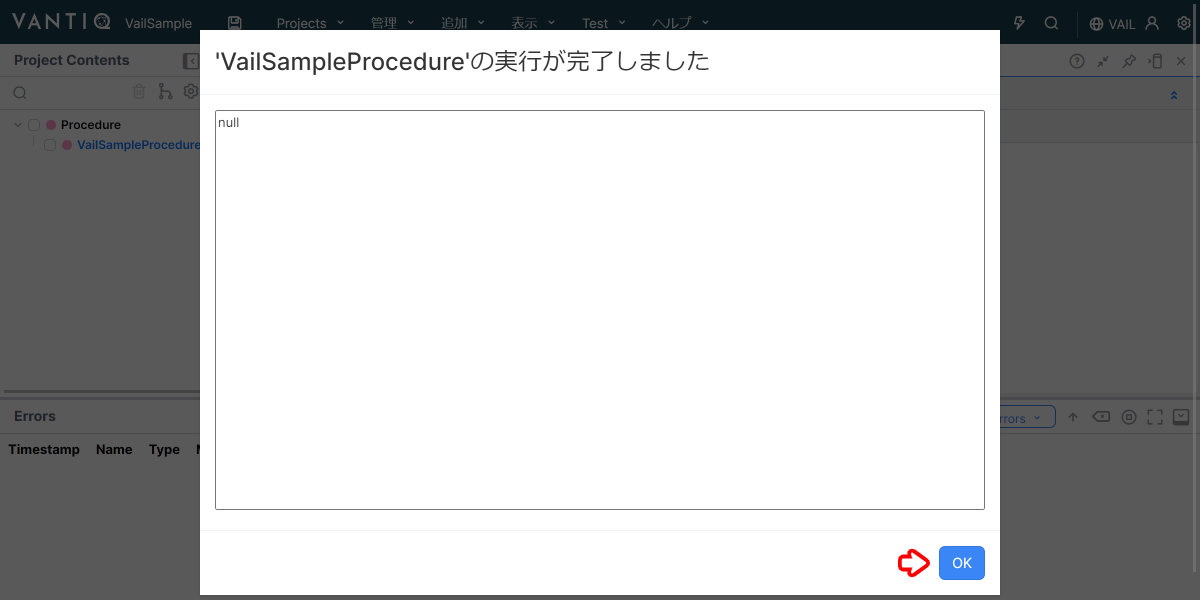
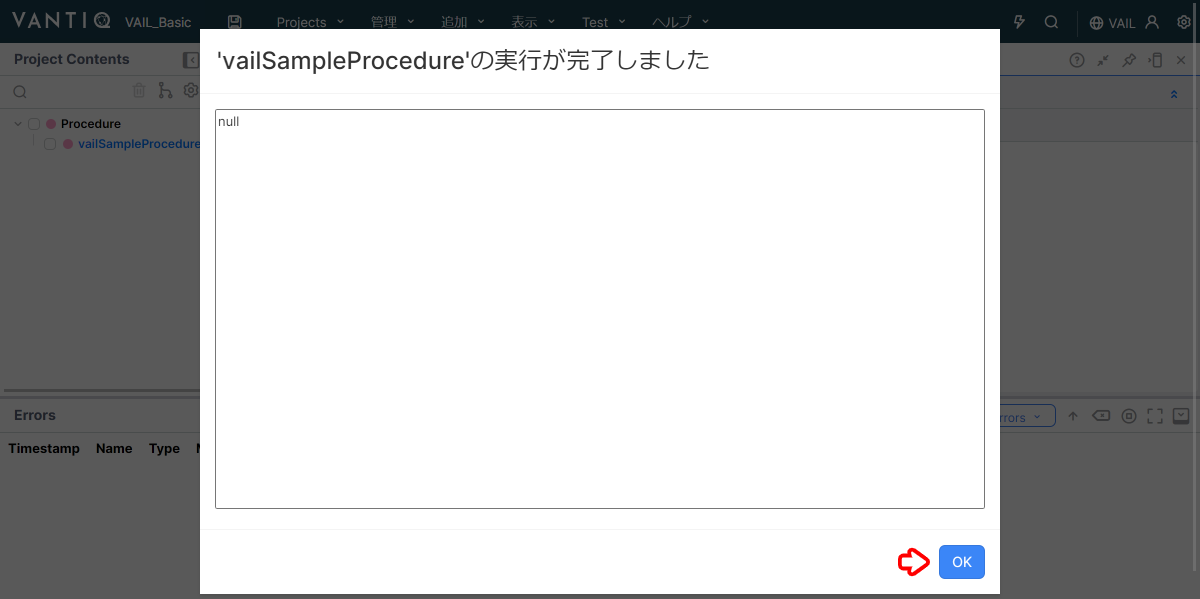
VAIL 入門（基礎）の改修
- 説明文の追加
- 画像の修正
- Procedure 名の変更
- 実装サンプルの追加

diff --git a/vantiq-introduction/apps-development/vail-introductory/vail_basic/vail_basic.md b/vantiq-introduction/apps-development/vail-introductory/vail_basic/vail_basic.md
@@ -21,6 +21,7 @@ Vantiq アプリケーション開発時に使用する独自言語である `VA
     - [Type](#type)
   - [配列](#配列)
   - [Try catch](#try-catch)
+  - [実装サンプル](#実装サンプル)
 
 ## Procedure の作成
 
@@ -42,7 +43,7 @@ VAIL を使うにあたって、まずは Procedure を用意します。
 
    ![vail_procedure_create_04.png](./imgs/vail_procedure_create_04.png)
 
-1. Procedure 名を任意の名前に変更し、保存します。（例：VailSampleProcedure）  
+1. Procedure 名を任意の名前に変更し、保存します。（例：vailSampleProcedure）  
 
    ![vail_procedure_create_05.png](./imgs/vail_procedure_create_05.png)
 
@@ -74,7 +75,7 @@ VAIL を使うにあたって、まずは Procedure を用意します。
 他の言語と同様に VAIL でもコメントアウトを記述できます。  
 
 ```JavaScript
-PROCEDURE VailSampleProcedure()
+PROCEDURE commentOut()
 
 // 1行ずつ、
 // コメントを書くことができます
@@ -96,7 +97,7 @@ VAIL では変数の宣言に `var` を用います。
 > JavaScript like ですが `;` は使用しません。
 
 ```JavaScript
-PROCEDURE VailSampleProcedure()
+PROCEDURE declareVariable()
 
 var a
 var b = 0
@@ -107,7 +108,7 @@ var b = 0
 VAIL では下記のデータ型が利用できます。  
 
 ```JavaScript
-PROCEDURE VailSampleProcedure()
+PROCEDURE vailTypes()
 
 // String
 var a = "Hello"
@@ -141,7 +142,7 @@ var e = {
 VAIL では下記の演算子が利用できます。  
 
 ```JavaScript
-PROCEDURE VailSampleProcedure()
+PROCEDURE binaryOperator()
 
 var a = 2
 var b = 3
@@ -164,7 +165,7 @@ b -= 1 // 2
 上記の演算子が正しく動いているか Log に出力して、確認してみましょう。  
 
 ```JavaScript
-PROCEDURE VailSampleProcedure()
+PROCEDURE binaryOperatorLog()
 
 var a = 2
 var b = 3
@@ -202,6 +203,8 @@ log.info("b: " + b)
 VAIL では下記の比較演算子が利用できます。  
 
 ```JavaScript
+PROCEDURE logicalOperator()
+
 3 == 3 // true
 3 == "3" // false
 
@@ -226,7 +229,7 @@ NOT true // false
 上記の比較演算子が正しく動いているか Log に出力して、確認してみましょう。  
 
 ```JavaScript
-PROCEDURE VailSampleProcedure()
+PROCEDURE logicalOperatorLog()
 
 var a = 3 == 3 // true
 log.info("a: " + a)
@@ -275,7 +278,7 @@ VAIL での if 文は下記のとおりです。
 括弧なし
 
 ```JavaScript
-PROCEDURE VailSampleProcedure()
+PROCEDURE flowControlIf1()
 
 var a = 10
 if a > 11 {
@@ -288,7 +291,7 @@ if a > 11 {
 括弧あり
 
 ```JavaScript
-PROCEDURE VailSampleProcedure()
+PROCEDURE flowControlIf2()
 
 var a = 10
 if (a > 11) {
@@ -306,10 +309,19 @@ fuga
 
 > **注意**  
 > VAIL は論理演算子のショートカットを行わないことがあります。  
-> 以下の例では右辺も評価されるため、エラーとなります。 
->  
+> 下記に具体的な例を示します。
+>
+> まずは比較するための Procedure を用意します。
+>
 > ```JavaScript
-> PROCEDURE VailSampleProcedure()
+> PROCEDURE compare(arg1, arg2)
+> return arg1 == arg2
+> ```
+>
+> 以下の例では右辺も評価され、 Procedure が呼び出されてしまうため、エラーとなります。
+>
+> ```JavaScript
+> PROCEDURE flowControlIf3()
 >
 > var stack = ["first"]
 > // stack の最後の2要素を比べて同じであれば pop する
@@ -321,7 +333,7 @@ fuga
 > 以下の様に実装すると安全です。
 > 
 > ```JavaScript
-> PROCEDURE VailSampleProcedure()
+> PROCEDURE flowControlIf4()
 >
 > var stack = ["first"]
 > // stack の最後の2要素を比べて同じであれば pop する
@@ -340,7 +352,7 @@ VAIL での for 文は Python の for 文と似ています。
 なお、 if 文と同様に条件部分は括弧付き、括弧なしのどちらでも動作します。 
 
 ```JavaScript
-PROCEDURE VailSampleProcedure()
+PROCEDURE iterationFor()
 
 var a = 1
 for i in range(0, 5, 1) {
@@ -364,7 +376,7 @@ return a
 `UNTIL`を使うと条件に一致した時点でループから抜けます。  
 
 ```JavaScript
-PROCEDURE VailSampleProcedure()
+PROCEDURE iterationForUntil()
 
 var a = 1
 for i in range(0, 5, 1) UNTIL i == 2 {
@@ -398,7 +410,7 @@ Type からレコードを取得し、レコードごとに処理を実行する
 </details>
 
 ```JavaScript
-PROCEDURE VailSampleProcedure()
+PROCEDURE iterationForType()
 
 var targetAge
 for member in SELECT FROM Members {
@@ -416,8 +428,8 @@ return targetAge
 23
 ```
 
-> **サンプル**  
-> サンプルとして用いた Type は [こちら](./data/VailSample_Type.zip) から、ダウンロードできます。  
+> **Type のサンプル**  
+> サンプルとして用いた Type は [こちら](./data/Vail_Basic_Type.zip) から、ダウンロードできます。  
 > Project にインポートして利用してください。  
 
 ## 配列
@@ -425,7 +437,7 @@ return targetAge
 VAIL でも配列が利用できます。  
 
 ```JavaScript
-PROCEDURE VailSampleProcedure()
+PROCEDURE vailArray()
 
 var myArray = [1,2,3,"Apple","Peach"]
 var firstElement = myArray[0] // 1
@@ -458,7 +470,7 @@ return myArray
 VAIL では例外処理も利用できます。
 
 ```JavaScript
-PROCEDURE VailSampleProcedure()
+PROCEDURE flowControlTry()
 
 var results = []
 try {
@@ -489,3 +501,8 @@ return results
     "Hello, finally"
 ]
 ```
+
+## 実装サンプル
+
+- [VAIL 入門（基礎）の実装サンプル（Vantiq 1.34）](./data/Vail_Basic_1.34.zip)
+- [VAIL 入門（基礎）の実装サンプル（Vantiq 1.37）](./data/Vail_Basic_1.37.zip)
